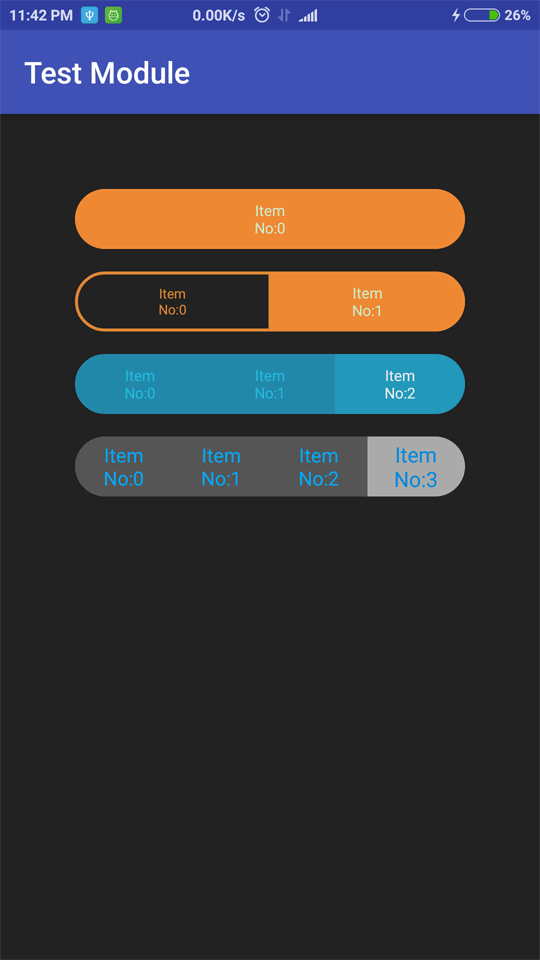
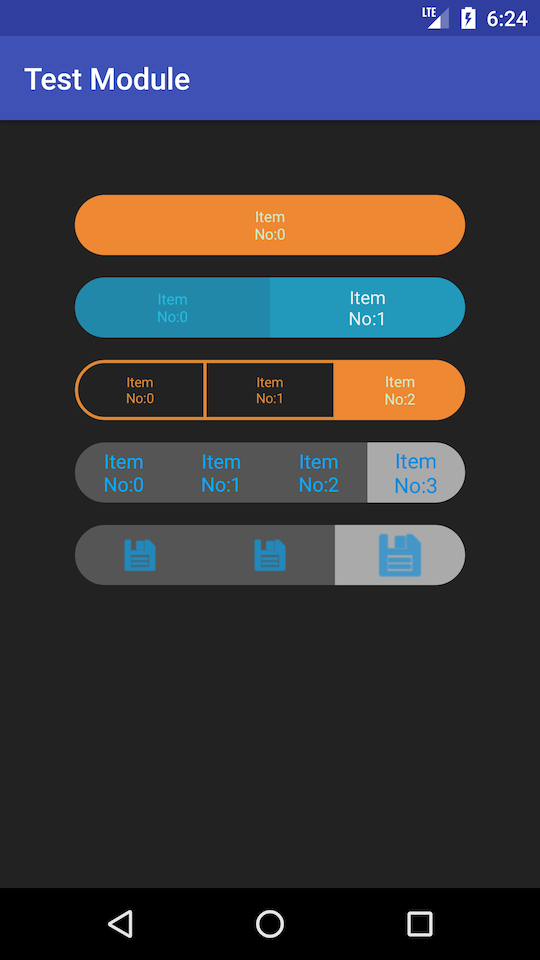
v1.0.6 Released.

diff --git a/coretablayout/src/main/java/com/deepdroid/coretablayout/CoreTabLayout.java b/coretablayout/src/main/java/com/deepdroid/coretablayout/CoreTabLayout.java
@@ -6,11 +6,13 @@ import android.content.Context;
 import android.content.res.TypedArray;
 import android.graphics.PorterDuff;
 import android.support.annotation.Nullable;
+import android.text.TextUtils;
 import android.util.AttributeSet;
 import android.util.TypedValue;
 import android.view.Gravity;
 import android.view.View;
 import android.view.ViewGroup;
+import android.widget.ImageView;
 import android.widget.LinearLayout;
 import android.widget.RelativeLayout;
 import android.widget.TextView;
@@ -100,7 +102,14 @@ public class CoreTabLayout extends LinearLayout {
 
     // =============================================================================================
     // SET METHODS
+    public CoreTabConfig getCoreTabConfig() {
+        return coreTabConfig;
+    }
+
     public void setTabConfig(CoreTabConfig tabConfig, boolean forceRedraw) {
+        if (tabConfig == null) {
+            return;
+        }
         this.coreTabConfig = tabConfig;
         if (forceRedraw && itemList != null && selectedItem != null) {
             setItems(itemList, selectedItem.itemIndex);
@@ -150,24 +159,30 @@ public class CoreTabLayout extends LinearLayout {
 
         // Generate item parent
         RelativeLayout itemView = new RelativeLayout(getContext());
-        itemView.setLayoutParams(new LayoutParams(0, LayoutParams.WRAP_CONTENT, 1));
+        itemView.setLayoutParams(new LayoutParams(0, getLayoutParams().height, 1));
         itemView.setClipChildren(false);
         itemView.setClipToPadding(false);
-        itemView.addView(coreTabItem.passiveItemTv);
-        itemView.addView(coreTabItem.selectedItemTv);
+        itemView.addView(coreTabItem.getPassiveItemView());
+        itemView.addView(coreTabItem.getSelectedItemView());
         return itemView;
     }
 
     private void generateItemViewWith(CoreTabItem coreTabItem, boolean isPassive) {
-        TextView itemView = new TextView(getContext());
-        itemView.setGravity(Gravity.CENTER);
+        View itemView;
+        if (TextUtils.isEmpty(coreTabItem.itemText)) {
+            itemView = new ImageView(getContext());
+            ((ImageView) itemView).setScaleType(ImageView.ScaleType.FIT_CENTER);
+        } else {
+            itemView = new TextView(getContext());
+            ((TextView) itemView).setGravity(Gravity.CENTER);
+        }
         setItemSelectionListener(itemView, coreTabItem);
-        itemView.setLayoutParams(new LayoutParams(ViewGroup.LayoutParams.MATCH_PARENT, ViewGroup.LayoutParams.WRAP_CONTENT));
+        itemView.setLayoutParams(new LayoutParams(ViewGroup.LayoutParams.MATCH_PARENT, getLayoutParams().height));
         coreTabItem.setItemView(itemView, isPassive);
         customizeItemView(itemView, coreTabItem, isPassive);
     }
 
-    private void setItemSelectionListener(TextView itemView, final CoreTabItem coreTabItem) {
+    private void setItemSelectionListener(View itemView, final CoreTabItem coreTabItem) {
         itemView.setOnClickListener(new OnClickListener() {
             @Override
             public void onClick(View view) {
@@ -176,15 +191,24 @@ public class CoreTabLayout extends LinearLayout {
         });
     }
 
-    private void customizeItemView(TextView itemView, CoreTabItem coreTabItem, boolean isPassive) {
-        itemView.setText(coreTabItem.itemText);
-        itemView.setTextSize(TypedValue.COMPLEX_UNIT_PX, coreTabConfig.getTextSize(isPassive));
-        itemView.setTextColor(coreTabConfig.getTextColor(isPassive));
+    private void customizeItemView(View itemView, CoreTabItem coreTabItem, boolean isPassive) {
+        if (itemView instanceof TextView) {
+            ((TextView) itemView).setText(coreTabItem.itemText);
+            ((TextView) itemView).setTextSize(TypedValue.COMPLEX_UNIT_PX, coreTabConfig.getTextSize(isPassive));
+            ((TextView) itemView).setTextColor(coreTabConfig.getTextColor(isPassive));
+        } else {
+            ((ImageView) itemView).setImageResource(coreTabItem.imgRes);
+            ((ImageView) itemView).getDrawable().mutate().setColorFilter(coreTabConfig.getTextColor(isPassive), PorterDuff.Mode.SRC_IN);
+        }
+        itemView.setPadding(coreTabConfig.getItemPadding(isPassive)
+                , coreTabConfig.getItemPadding(isPassive)
+                , coreTabConfig.getItemPadding(isPassive)
+                , coreTabConfig.getItemPadding(isPassive));
         itemView.setBackgroundResource(coreTabConfig.getBackgroundDrawableResId(isPassive, coreTabItem.coreTabItemType));
         filterBackgroundColor(itemView, isPassive);
     }
 
-    private void filterBackgroundColor(TextView itemView, boolean isPassive) {
+    private void filterBackgroundColor(View itemView, boolean isPassive) {
         int filterColor = coreTabConfig.getBackgroundFilterColor(isPassive);
         if (filterColor == 0) {
             return;
@@ -245,21 +269,21 @@ public class CoreTabLayout extends LinearLayout {
 
     private void selectItem(CoreTabItem tabItem) {
         if (isInEditMode()) {
-            tabItem.selectedItemTv.setVisibility(VISIBLE);
+            tabItem.getSelectedItemView().setVisibility(VISIBLE);
             return;
         }
-        if (tabItem.selectedItemTv.getAlpha() == 1f && tabItem.selectedItemTv.getVisibility() == VISIBLE && tabItem.isSelected) {
+        if (tabItem.getSelectedItemView().getAlpha() == 1f && tabItem.getSelectedItemView().getVisibility() == VISIBLE && tabItem.isSelected) {
             // Already selected.
             return;
         }
         tabItem.isSelected = true;
-        tabItem.selectedItemTv.clearAnimation();
-        tabItem.selectedItemTv.setAlpha(0f);
-        tabItem.selectedItemTv.setVisibility(VISIBLE);
+        tabItem.getSelectedItemView().clearAnimation();
+        tabItem.getSelectedItemView().setAlpha(0f);
+        tabItem.getSelectedItemView().setVisibility(VISIBLE);
         if (isAnimationsEnabled()) {
-            ObjectAnimator.ofFloat(tabItem.selectedItemTv, ALPHA, 1f).start();
+            ObjectAnimator.ofFloat(tabItem.getSelectedItemView(), ALPHA, 1f).start();
         } else {
-            tabItem.selectedItemTv.setAlpha(1);
+            tabItem.getSelectedItemView().setAlpha(1);
         }
         selectedItem = tabItem;
         if (itemSelectionListener != null) {
@@ -269,19 +293,19 @@ public class CoreTabLayout extends LinearLayout {
 
     private void deselectItem(final CoreTabItem tabItem) {
         if (isInEditMode()) {
-            tabItem.selectedItemTv.setVisibility(GONE);
+            tabItem.getSelectedItemView().setVisibility(GONE);
             return;
         }
-        if (tabItem.selectedItemTv.getVisibility() == INVISIBLE) {
+        if (tabItem.getSelectedItemView().getVisibility() == INVISIBLE) {
             // Not selected.
             return;
         }
         tabItem.isSelected = false;
-        tabItem.selectedItemTv.clearAnimation();
-        tabItem.selectedItemTv.setAlpha(1f);
-        tabItem.selectedItemTv.setVisibility(VISIBLE);
+        tabItem.getSelectedItemView().clearAnimation();
+        tabItem.getSelectedItemView().setAlpha(1f);
+        tabItem.getSelectedItemView().setVisibility(VISIBLE);
         if (isAnimationsEnabled()) {
-            final Animator alphaAnim = ObjectAnimator.ofFloat(tabItem.selectedItemTv, ALPHA, 0f);
+            final Animator alphaAnim = ObjectAnimator.ofFloat(tabItem.getSelectedItemView(), ALPHA, 0f);
             alphaAnim.addListener(new Animator.AnimatorListener() {
                 @Override
                 public void onAnimationStart(Animator animator) {
@@ -289,8 +313,8 @@ public class CoreTabLayout extends LinearLayout {
 
                 @Override
                 public void onAnimationEnd(Animator animator) {
-                    tabItem.selectedItemTv.setVisibility(INVISIBLE);
-                    tabItem.selectedItemTv.setAlpha(0f);
+                    tabItem.getSelectedItemView().setVisibility(INVISIBLE);
+                    tabItem.getSelectedItemView().setAlpha(0f);
                     animatorList.remove(alphaAnim);
                 }
 
@@ -305,8 +329,8 @@ public class CoreTabLayout extends LinearLayout {
             alphaAnim.start();
             animatorList.add(alphaAnim);
         } else {
-            tabItem.selectedItemTv.setVisibility(INVISIBLE);
-            tabItem.selectedItemTv.setAlpha(0);
+            tabItem.getSelectedItemView().setVisibility(INVISIBLE);
+            tabItem.getSelectedItemView().setAlpha(0);
         }
     }
 

diff --git a/testmodule/src/main/java/com/deepdroid/coretablayouttestmodule/TestActivity.java b/testmodule/src/main/java/com/deepdroid/coretablayouttestmodule/TestActivity.java
@@ -26,12 +26,14 @@ public class TestActivity extends AppCompatActivity {
         CoreTabLayout tabLayoutWithTwoItems = (CoreTabLayout) findViewById(R.id.testCoreTabLayoutWith2Items);
         CoreTabLayout tabLayoutWithThreeItems = (CoreTabLayout) findViewById(R.id.testCoreTabLayoutWith3Items);
         CoreTabLayout tabLayoutWithFourItems = (CoreTabLayout) findViewById(R.id.testCoreTabLayoutWith4Items);
+        CoreTabLayout tabLayoutWithThreeImages = (CoreTabLayout) findViewById(R.id.testCoreTabLayoutWith3Images);
 
         // # ESSENTIAL : Set new tab items.
         tabLayoutWithSingleItem.setItems(getTestItems(1), 0);
         tabLayoutWithTwoItems.setItems(getTestItems(2), 1);
         tabLayoutWithThreeItems.setItems(getTestItems(3), 2);
         tabLayoutWithFourItems.setItems(getTestItems(4), 3);
+        tabLayoutWithThreeImages.setItems(getTestImages(3), 0);
 
         // # OPTIONAL - EXAMPLE CODES : Set item selection listener.
         tabLayoutWithSingleItem.setItemSelectionListener(itemSelectionListener);
@@ -39,6 +41,7 @@ public class TestActivity extends AppCompatActivity {
         // # OPTIONAL - EXAMPLE CODES : Modify visual configurations
         // ( You can modify background drawable, color filter for the background, text color & size for passive & active views. )
         modifyTabLayoutConfigProgrammatically(tabLayoutWithTwoItems);
+        modifyTabLayoutConfigParameterProgrammatically(tabLayoutWithThreeImages);
     }
 
     // # OPTIONAL - EXAMPLE CODES : Generate dummy data.
@@ -50,7 +53,16 @@ public class TestActivity extends AppCompatActivity {
         return itemList;
     }
 
-    // # OPTIONAL - EXAMPLE CODES : Customize tab layout visual configuration.
+    // # OPTIONAL - EXAMPLE CODES : Generate dummy data.
+    private List<CoreTabItem> getTestImages(int itemCount) {
+        List<CoreTabItem> itemList = new ArrayList<>();
+        for (int x = 0; x < itemCount; x++) {
+            itemList.add(new CoreTabItem(x + "", "").setImage(android.R.drawable.ic_menu_save));
+        }
+        return itemList;
+    }
+
+    // # OPTIONAL - EXAMPLE CODES : Customize tab layout visual configuration. ( whole configuration )
     private void modifyTabLayoutConfigProgrammatically(CoreTabLayout coreTabLayout) {
         // You can use default constructor & then change the config values one by one.
         // CoreTabConfig customTabConfig = new CoreTabConfig(getResources());
@@ -68,6 +80,14 @@ public class TestActivity extends AppCompatActivity {
 
         // Apply your new config values.
         coreTabLayout.setTabConfig(customTabConfig, true);
+    }
+
+    // # OPTIONAL - EXAMPLE CODES : Customize tab layout visual configuration. ( single param )
+    private void modifyTabLayoutConfigParameterProgrammatically(CoreTabLayout coreTabLayout) {
+        // Modify single property of config object.
+        CoreTabConfig modifiedTabLayoutConfig = coreTabLayout.getCoreTabConfig();
+        modifiedTabLayoutConfig.passiveItemPadding = getResources().getDimensionPixelSize(R.dimen.tabLayoutPassiveItemPadding) * 2;
+        coreTabLayout.setTabConfig(modifiedTabLayoutConfig, true);
     }
 
     // # OPTIONAL - EXAMPLE CODES : Item selection listener

diff --git a/coretablayout/src/main/java/com/deepdroid/coretablayout/CoreTabItem.java b/coretablayout/src/main/java/com/deepdroid/coretablayout/CoreTabItem.java
@@ -1,5 +1,8 @@
 package com.deepdroid.coretablayout;
 
+import android.support.annotation.DrawableRes;
+import android.view.View;
+import android.widget.ImageView;
 import android.widget.TextView;
 
 /**
@@ -12,9 +15,12 @@ public class CoreTabItem {
     String itemId;
     int itemIndex;
     boolean isSelected;
+    int imgRes;
     CoreTabItemType coreTabItemType;
-    TextView passiveItemTv;
-    TextView selectedItemTv;
+    private TextView passiveItemTv;
+    private TextView selectedItemTv;
+    private ImageView passiveItemImg;
+    private ImageView selectedItemImg;
 
     public CoreTabItem(String itemId, String itemText) {
         this.itemId = itemId;
@@ -36,20 +42,33 @@ public class CoreTabItem {
     public boolean isSelected() {
         return isSelected;
     }
-
-    public TextView getPassiveItemTv() {
-        return passiveItemTv;
-    }
-
-    public TextView getActiveItemTv() {
-        return selectedItemTv;
-    }
-
-    void setItemView(TextView itemView, boolean isPassive) {
+    
+    void setItemView(View itemView, boolean isPassive) {
         if (isPassive) {
-            passiveItemTv = itemView;
+            if (itemView instanceof TextView) {
+                passiveItemTv = (TextView) itemView;
+            } else {
+                passiveItemImg = (ImageView) itemView;
+            }
         } else {
-            selectedItemTv = itemView;
+            if (itemView instanceof TextView) {
+                selectedItemTv = (TextView) itemView;
+            } else {
+                selectedItemImg = (ImageView) itemView;
+            }
         }
+    }
+
+    public View getSelectedItemView() {
+        return selectedItemTv != null ? selectedItemTv : selectedItemImg;
+    }
+
+    public View getPassiveItemView() {
+        return passiveItemTv != null ? passiveItemTv : passiveItemImg;
+    }
+
+    public CoreTabItem setImage(@DrawableRes int imgRes) {
+        this.imgRes = imgRes;
+        return this;
     }
 }

diff --git a/coretablayout/src/main/java/com/deepdroid/coretablayout/CoreTabConfig.java b/coretablayout/src/main/java/com/deepdroid/coretablayout/CoreTabConfig.java
@@ -27,6 +27,8 @@ public class CoreTabConfig {
 
     public int passiveTextSize;
     public int selectedTextSize;
+    public int passiveItemPadding;
+    public int selectedItemPadding;
 
     public CoreTabConfig(Resources resources) {
         try {
@@ -42,6 +44,9 @@ public class CoreTabConfig {
 
         passiveTextSize = resources.getDimensionPixelSize(R.dimen.tabLayoutPassiveTextSize);
         selectedTextSize = resources.getDimensionPixelSize(R.dimen.tabLayoutSelectedTextSize);
+
+        passiveItemPadding = resources.getDimensionPixelSize(R.dimen.tabLayoutPassiveItemPadding);
+        selectedItemPadding = resources.getDimensionPixelSize(R.dimen.tabLayoutSelectedItemPadding);
 
         singleItemDrawable = new CoreTabConfigBackgroundDrawable(R.drawable.core_tab_layout_passive_single_item_drawable, R.drawable.core_tab_layout_selected_single_item_drawable);
         startItemDrawable = new CoreTabConfigBackgroundDrawable(R.drawable.core_tab_layout_passive_start_item_drawable, R.drawable.core_tab_layout_selected_start_item_drawable);
@@ -72,6 +77,10 @@ public class CoreTabConfig {
 
     public float getTextSize(boolean isPassive) {
         return isPassive ? passiveTextSize : selectedTextSize;
+    }
+
+    public int getItemPadding(boolean isPassive) {
+        return isPassive ? passiveItemPadding : selectedItemPadding;
     }
 
     @ColorInt

diff --git a/README.md b/README.md
@@ -36,9 +36,17 @@ II.B. Set the items in your java codes.
 ```java
     CoreTabLayout testCoreTabLayout = (CoreTabLayout) findViewById(R.id.testCoreTabLayout);
     List<CoreTabItem> itemList = new ArrayList<>();
+
+    // TEXT ITEMS
     itemList.add(new CoreTabItem("itemId0", "ItemLabel 0"));
     itemList.add(new CoreTabItem("itemId1", "ItemLabel 1"));
     itemList.add(new CoreTabItem("itemId2", "ItemLabel 2"));
+
+    // IMAGE ITEMS
+    // itemList.add(new CoreTabItem("itemId0", "").setImage(android.R.drawable.ic_menu_save)); // Item text must be empty...
+    // itemList.add(new CoreTabItem("itemId1", "").setImage(android.R.drawable.ic_menu_save));
+    // itemList.add(new CoreTabItem("itemId2", "").setImage(android.R.drawable.ic_menu_save));
+
     testCoreTabLayout.setItems(itemList, initialSelectedItemIndex);
     testCoreTabLayout.setItemSelectionListener(new CoreTabItemSelectionListener() {
         @Override
